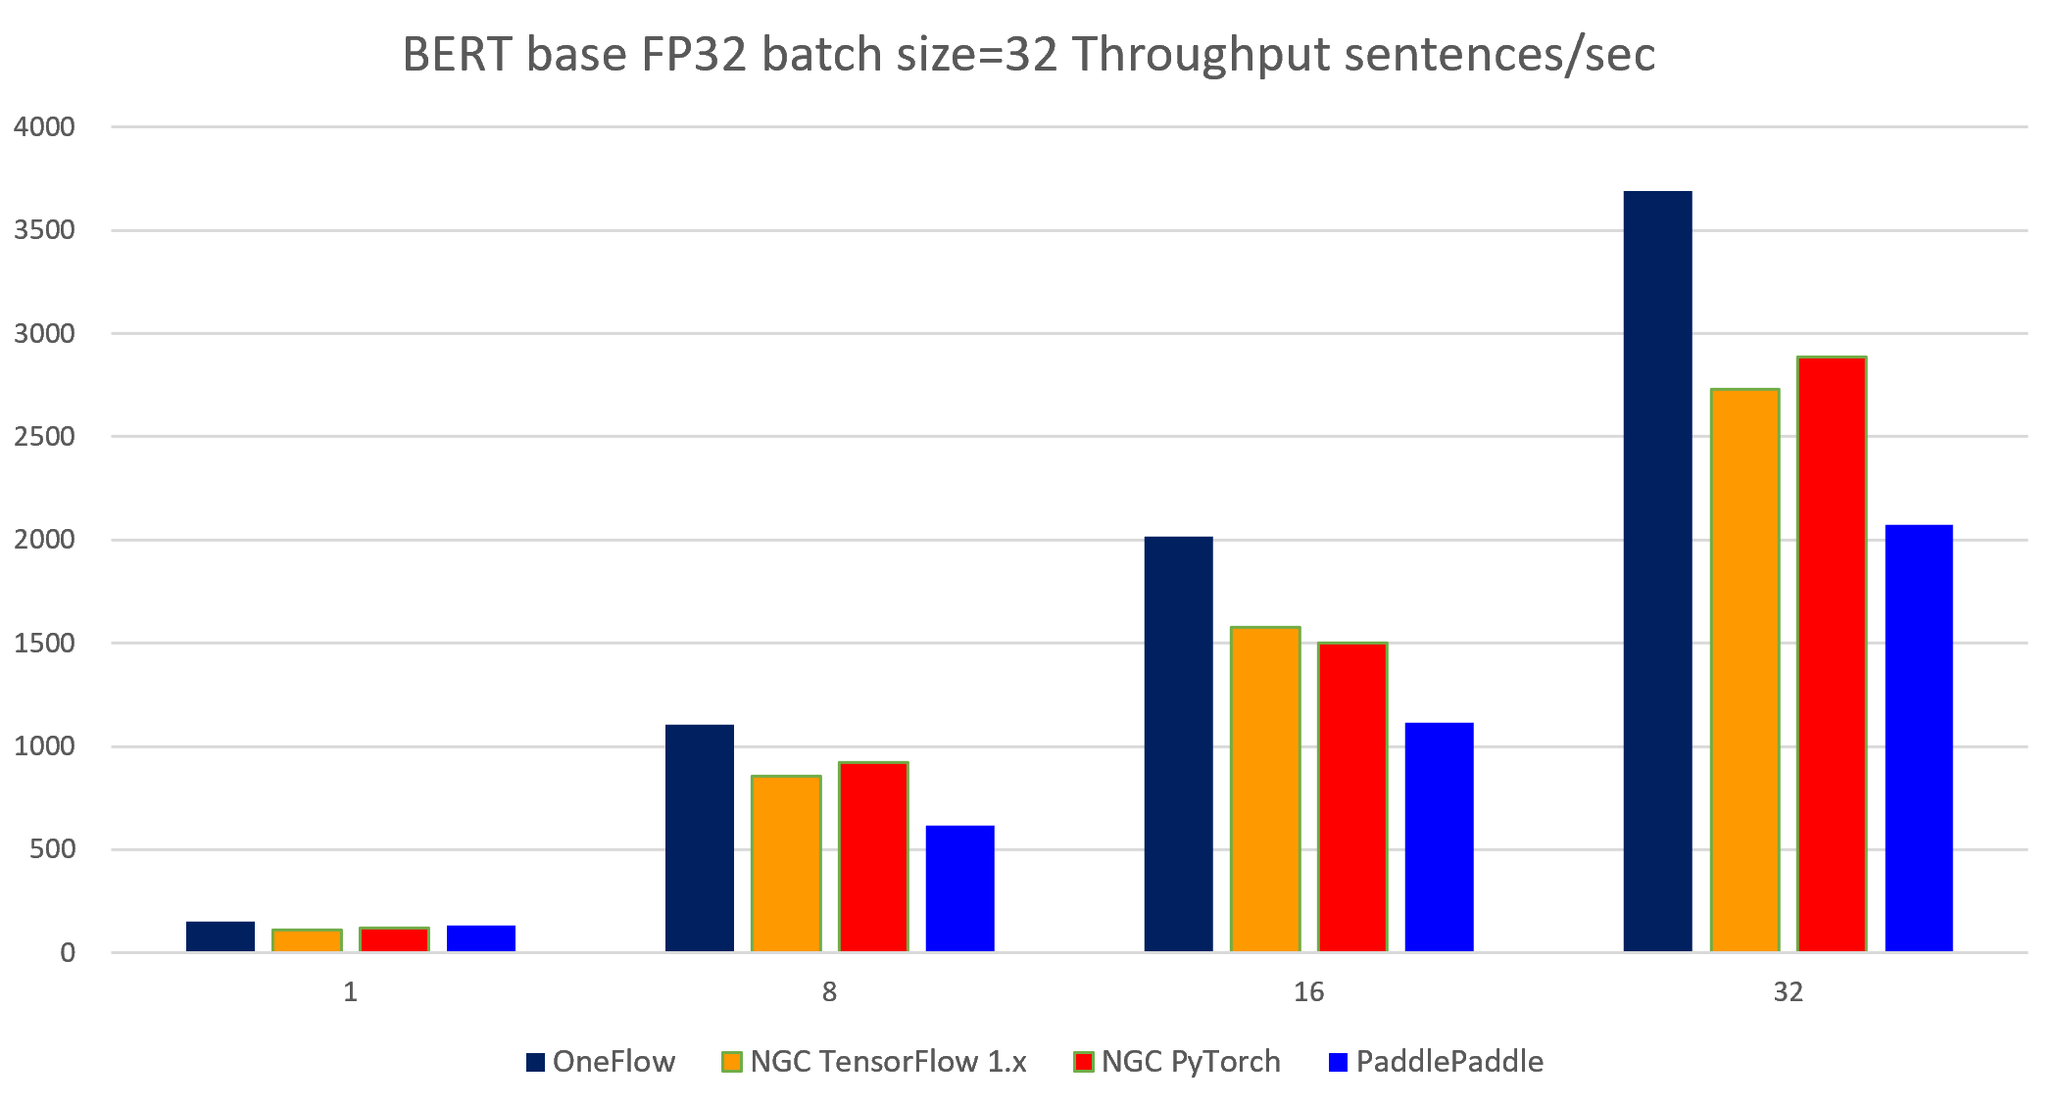
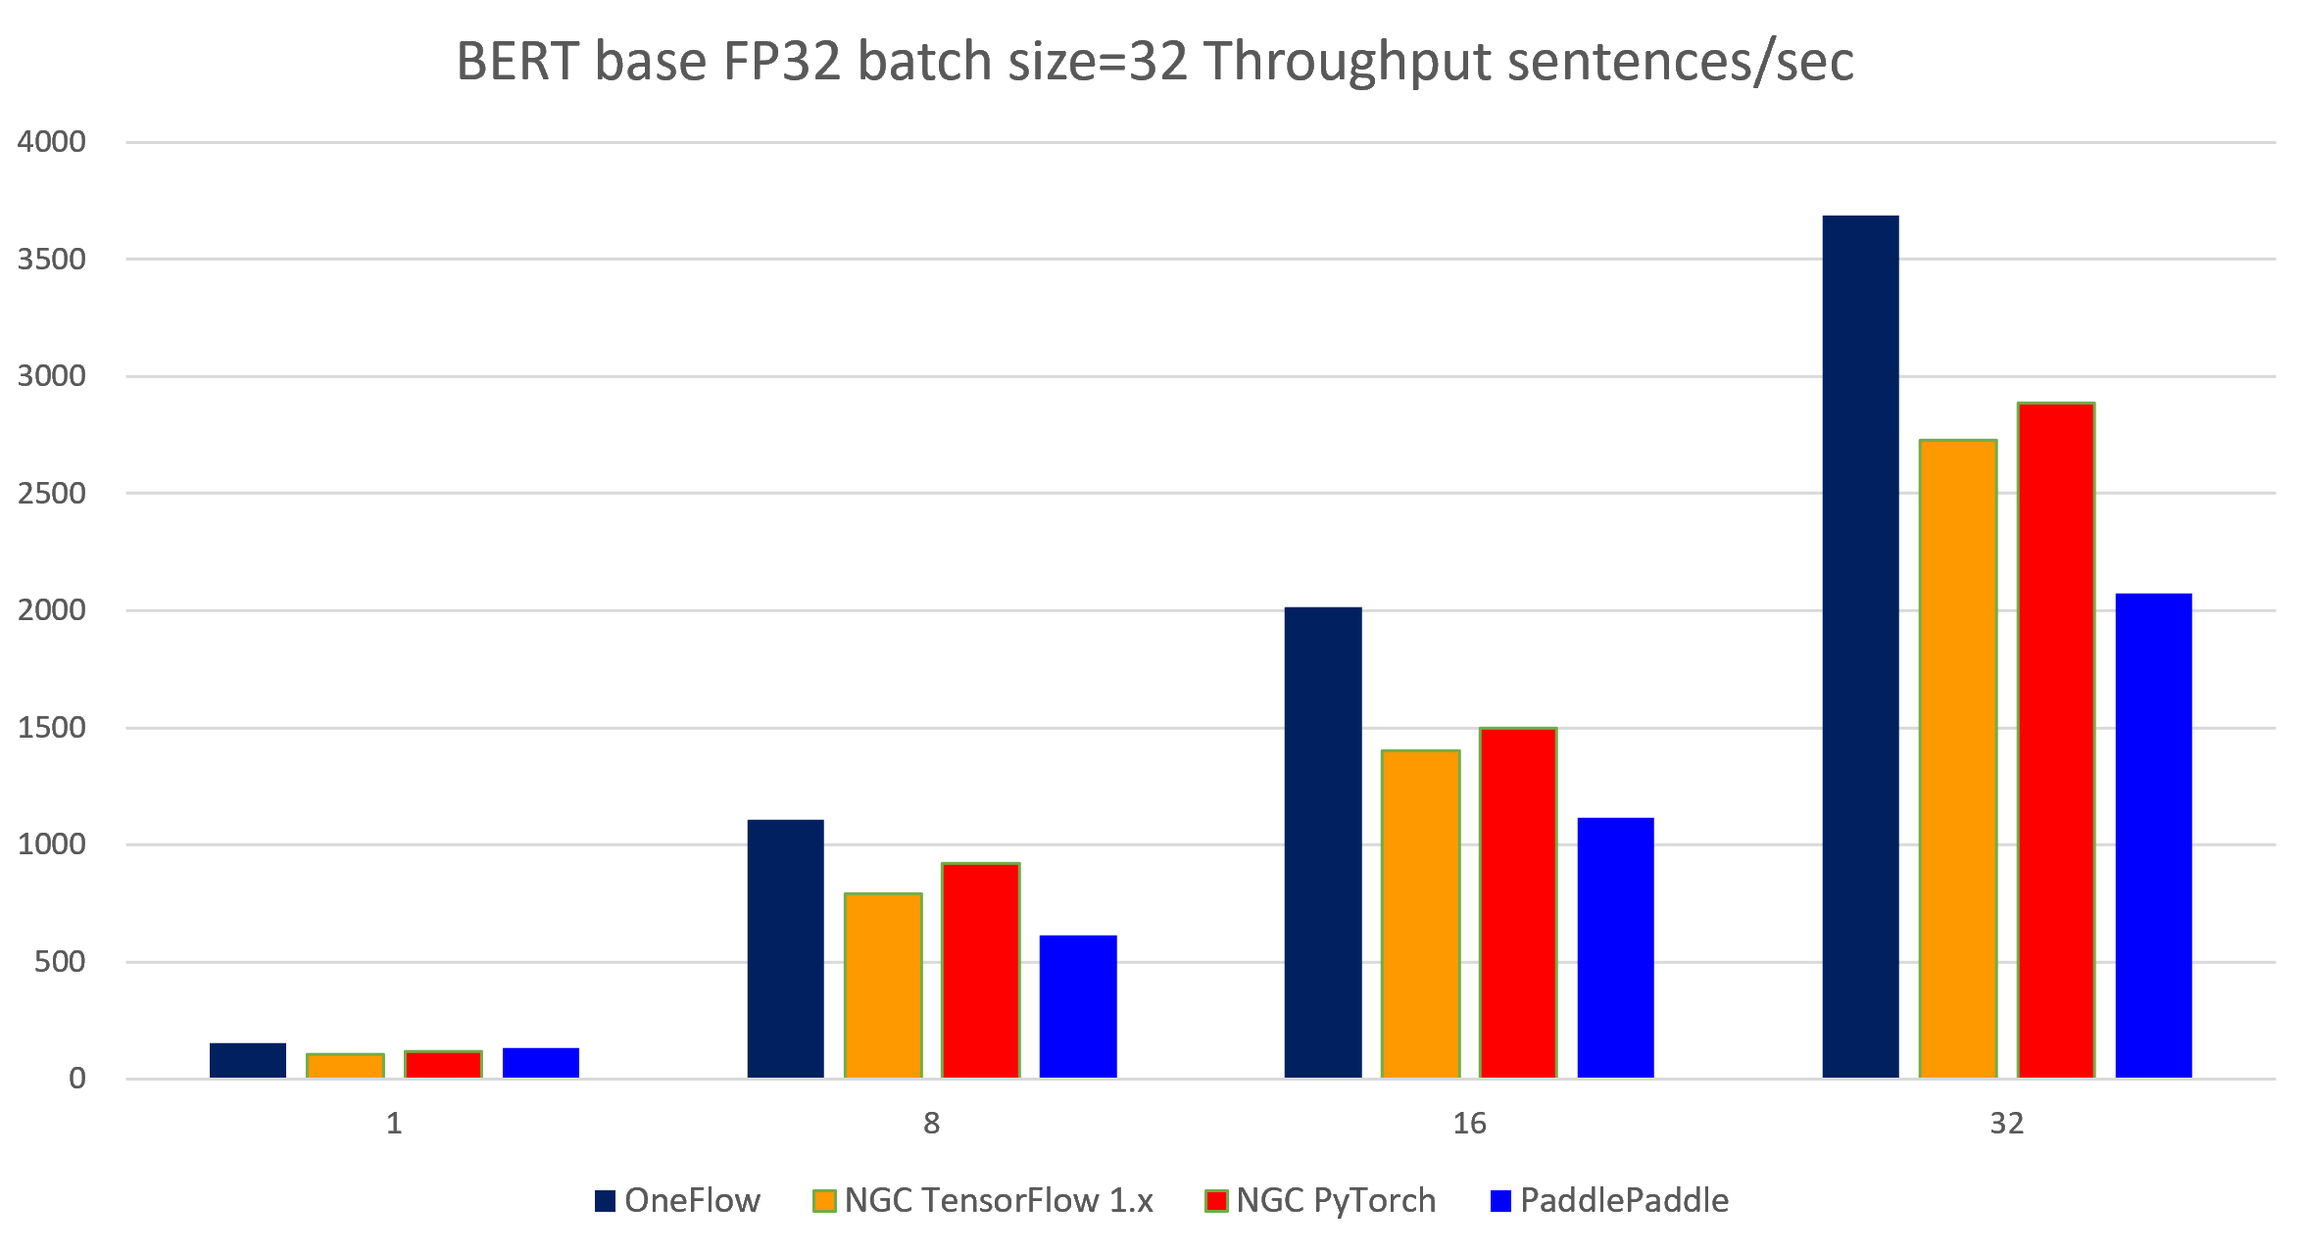
refine data of tf bert

diff --git a/reports/dlperf_benchmark_test_report_v1.md b/reports/dlperf_benchmark_test_report_v1.md
@@ -1,6 +1,6 @@
 # DLPerf Benchmark Test Report V1.0
 
-This report summarizes the results of a series of tests performed in Oct, 2020.  
+This report summarizes the results of a series of tests published in Oct, 2020.  
 
 ## Test Environment
 
@@ -119,12 +119,12 @@ The following images show throughput and speedup of 6 implementations of ResNet5
 
 | node num | device num | [OneFlow](../OneFlow) | [NGC<br>TensorFlow 1.x](../NVIDIADeepLearningExamples/TensorFlow/LanguageModeling/BERT) | [NGC<br>PyTorch](../NVIDIADeepLearningExamples/PyTorch/BERT) | [PaddlePaddle](../PaddlePaddle/bert) | <sup>[2]</sup>[OneFlow<br>W/O clip](../OneFlow) | <sup>[2]</sup>[MXNet<br>W/O clip](../MxNet/BERT) |
 | -------- | ---------- | --------------------- | ------------------------------------------------------------ | ------------------------------------------------------------ | ------------------------------------ | ----------------------------------------------- | ------------------------------------------------ |
-| 1        | 1          | 152.89                | 112.76                                                       | 119.60                                                       | 132.64                               | 153.94                                          | 150.11                                           |
-| 1        | 8          | 1105.55               | 855.45                                                       | 921.32                                                       | 615.12                               | 1194.48                                         | 1058.60                                          |
-| 2        | 16         | 2015.78               | 1576.88                                                      | 1499.40                                                      | 1116.02                              | 2181.51                                         | 1845.65                                          |
+| 1        | 1          | 152.89                | 107.33                                                       | 119.60                                                       | 132.64                               | 153.94                                          | 150.11                                           |
+| 1        | 8          | 1105.55               | 790.03                                                       | 921.32                                                       | 615.12                               | 1194.48                                         | 1058.60                                          |
+| 2        | 16         | 2015.78               | 1404.04                                                      | 1499.40                                                      | 1116.02                              | 2181.51                                         | 1845.65                                          |
 | 4        | 32         | 3689.80               | 2727.90                                                      | 2885.81                                                      | 2073.60                              | 4019.45                                         | 3671.45                                          |
 
-[2]: The MXNet BERT script of the [gluon-nlp](https://github.com/dmlc/gluon-nlp/tree/7b7bf60259e28b3bf1f4d70569a7e5c18e2f4b3e/scripts/bert) repository does NOT support clip_by_ global_norm operation in Adam optimizer. **W/O clip_by_global_norm** operation, the throughput will be larger and the the fine-tuning accuracy may be lower. So we also tested OneFlow data W/O clip operation for comparison.
+[2]: The MXNet BERT script of the [gluon-nlp](https://github.com/dmlc/gluon-nlp/tree/7b7bf60259e28b3bf1f4d70569a7e5c18e2f4b3e/scripts/bert) repository does NOT support clip_by_ global_norm operation in Adam optimizer. **W/O clip_by_global_norm** operation, the throughput will be larger and the the fine-tuning accuracy may be在· lower. So we also tested OneFlow data W/O clip operation for comparison.
 
 The following images show throughput and speedup of 4 implementations  (without MXNet) of BERT base with data type float32 and  batch size per device = 32.
 
@@ -134,12 +134,12 @@ The following images show throughput and speedup of 4 implementations  (without 
 
 #### FP32, batch size = max  
 
-| node num | device num | [OneFlow<br>bsz=96](../OneFlow) | [NGC<br>TensorFlow 1.x<br>bsz=48](../NVIDIADeepLearningExamples/TensorFlow/LanguageModeling/BERT) | [NGC<br>PyTorch<br>bsz=48](../NVIDIADeepLearningExamples/PyTorch/BERT) | [PaddlePaddle<br>bsz=96](../PaddlePaddle/bert) | <sup>[2]</sup>[OneFlow<br>W/O clip<br>bsz=96](../OneFlow) | [MXNet<br>W/O clip<br>bsz=64](../MxNet/BERT) |
-| -------- | ---------- | ------------------------------- | ------------------------------------------------------------ | ------------------------------------------------------------ | ---------------------------------------------- | --------------------------------------------------------- | -------------------------------------------- |
-| 1        | 1          | 156.02                          | 107.33                                                       | 121.94                                                       | 136.97                                         | 156.25                                                    | 156.76                                       |
-| 1        | 8          | 1201.70                         | 790.03                                                       | 928.01                                                       | 868.60                                         | 1234.65                                                   | 1153.08                                      |
-| 2        | 16         | 2352.92                         | 1404.04                                                      | 1584.32                                                      | 1631.36                                        | 2425.97                                                   | 2172.62                                      |
-| 4        | 32         | 4664.10                         | 3089.74                                                      | 3039.30                                                      | 3167.68                                        | 4799.64                                                   | 4340.89                                      |
+| node num | device num | [OneFlow<br>bsz=96](../OneFlow) | [NGC<br>TensorFlow 1.x<br>bsz=48](../NVIDIADeepLearningExamples/TensorFlow/LanguageModeling/BERT) | [NGC<br>PyTorch<br>bsz=48](../NVIDIADeepLearningExamples/PyTorch/BERT) | [PaddlePaddle<br>bsz=96](../PaddlePaddle/bert) | [OneFlow<br>W/O clip<br>bsz=96](../OneFlow) | [MXNet<br>W/O clip<br>bsz=64](../MxNet/BERT) |
+| -------- | ---------- | ------------------------------- | ------------------------------------------------------------ | ------------------------------------------------------------ | ---------------------------------------------- | ------------------------------------------- | -------------------------------------------- |
+| 1        | 1          | 156.02                          | 112.76                                                       | 121.94                                                       | 136.97                                         | 156.25                                      | 156.76                                       |
+| 1        | 8          | 1201.70                         | 855.45                                                       | 928.01                                                       | 868.60                                         | 1234.65                                     | 1153.08                                      |
+| 2        | 16         | 2352.92                         | 1576.88                                                      | 1584.32                                                      | 1631.36                                        | 2425.97                                     | 2172.62                                      |
+| 4        | 32         | 4664.10                         | 3089.74                                                      | 3039.30                                                      | 3167.68                                        | 4799.64                                     | 4340.89                                      |
 
 The following images show throughput and speedup of 4 implementations of BERT base with with data type float32 and batch size per device = max.
 
@@ -151,12 +151,12 @@ The following images show throughput and speedup of 4 implementations of BERT ba
 
 #### AMP, batch size = 64
 
-| node num | device num | [OneFlow](../OneFlow) | [NGC<br>TensorFlow 1.x<br>W/O XLA](../NVIDIADeepLearningExamples/TensorFlow/LanguageModeling/BERT) | [NGC<br>TensorFlow 1.x<br>with XLA](../NVIDIADeepLearningExamples/TensorFlow/LanguageModeling/BERT) | [NGC<br>PyTorch](../NVIDIADeepLearningExamples/PyTorch/BERT) | [PaddlePaddle](../PaddlePaddle/bert) | <sup>[2]</sup>[OneFlow<br>W/O clip](../OneFlow) | [MXNet<br>W/O clip](../MxNet/BERT) |
-| -------- | ---------- | --------------------- | ------------------------------------------------------------ | ------------------------------------------------------------ | ------------------------------------------------------------ | ------------------------------------ | ----------------------------------------------- | ---------------------------------- |
-| 1        | 1          | 534.72                | 183.25                                                       | 422.53                                                       | 444.51                                                       | 289.23                               | 552.48                                          | 473.76                             |
-| 1        | 8          | 3399.43               | 1452.59                                                      | 3112.73                                                      | 3251.7                                                       | 1298.96                              | 3897.19                                         | 3107.1                             |
-| 2        | 16         | 5745.56               | 2653.74                                                      | 5050.86                                                      | 4936.92                                                      | 1999.38                              | 6669.93                                         | 5723.26                            |
-| 4        | 32         | 9911.78               | 5189.07                                                      | 9409.20                                                      | 9331.72                                                      | 3406.36                              | 11195.72                                        | 11269.14                           |
+| node num | device num | [OneFlow](../OneFlow) | [NGC<br>TensorFlow 1.x<br>W/O XLA](../NVIDIADeepLearningExamples/TensorFlow/LanguageModeling/BERT) | [NGC<br>TensorFlow 1.x<br>with XLA](../NVIDIADeepLearningExamples/TensorFlow/LanguageModeling/BERT) | [NGC<br>PyTorch](../NVIDIADeepLearningExamples/PyTorch/BERT) | [PaddlePaddle](../PaddlePaddle/bert) | [OneFlow<br>W/O clip](../OneFlow) | [MXNet<br>W/O clip](../MxNet/BERT) |
+| -------- | ---------- | --------------------- | ------------------------------------------------------------ | ------------------------------------------------------------ | ------------------------------------------------------------ | ------------------------------------ | --------------------------------- | ---------------------------------- |
+| 1        | 1          | 534.72                | 183.25                                                       | 422.53                                                       | 444.51                                                       | 289.23                               | 552.48                            | 473.76                             |
+| 1        | 8          | 3399.43               | 1452.59                                                      | 3112.73                                                      | 3251.7                                                       | 1298.96                              | 3897.19                           | 3107.1                             |
+| 2        | 16         | 5745.56               | 2653.74                                                      | 5050.86                                                      | 4936.92                                                      | 1999.38                              | 6669.93                           | 5723.26                            |
+| 4        | 32         | 9911.78               | 5189.07                                                      | 9409.20                                                      | 9331.72                                                      | 3406.36                              | 11195.72                          | 11269.14                           |
 
 The following images show throughput and speedup of 4 implementations   (with TensorFlow 1.x XLA and without MXNet) of BERT base with auto mixed precision and batch size per device = 64.
 
@@ -166,12 +166,12 @@ The following images show throughput and speedup of 4 implementations   (with Te
 
 #### AMP, batch size = max  
 
-| node num | device num | [OneFlow<br>bsz=160](../OneFlow) | [NGC<br>TensorFlow 1.x<br>W/O XLA<br>bsz=64](../NVIDIADeepLearningExamples/TensorFlow/LanguageModeling/BERT) | [NGC<br>TensorFlow 1.x<br>with XLA<br>bsz=96](../NVIDIADeepLearningExamples/TensorFlow/LanguageModeling/BERT) | [NGC<br>PyTorch<br>bsz=96](../NVIDIADeepLearningExamples/PyTorch/BERT) | [PaddlePaddle<br>bsz=160](../PaddlePaddle/bert) | <sup>[2]</sup>[OneFlow<br>W/O clip<br>bsz=160](../OneFlow) | [MXNet<br>W/O clip<br>bsz=128](../MxNet/BERT) |
-| -------- | ---------- | -------------------------------- | ------------------------------------------------------------ | ------------------------------------------------------------ | ------------------------------------------------------------ | ----------------------------------------------- | ---------------------------------------------------------- | --------------------------------------------- |
-| 1        | 1          | 605.11                           | 183.25                                                       | 468.10                                                       | 462.35                                                       | 309.68                                          | 613.93                                                     | 544.31                                        |
-| 1        | 8          | 4381.66                          | 1452.59                                                      | 3559.8                                                       | 3287.12                                                      | 1666.54                                         | 4683.36                                                    | 3825.21                                       |
-| 2        | 16         | 8075.16                          | 2653.74                                                      | 5960.14                                                      | 5426.07                                                      | 2969.85                                         | 8777.57                                                    | 7327.50                                       |
-| 4        | 32         | 15724.70                         | 5189.07                                                      | 11650.0                                                      | 10349.12                                                     | 5452.35                                         | 17210.63                                                   | 14822.31                                      |
+| node num | device num | [OneFlow<br>bsz=160](../OneFlow) | [NGC<br>TensorFlow 1.x<br>W/O XLA<br>bsz=64](../NVIDIADeepLearningExamples/TensorFlow/LanguageModeling/BERT) | [NGC<br>TensorFlow 1.x<br>with XLA<br>bsz=96](../NVIDIADeepLearningExamples/TensorFlow/LanguageModeling/BERT) | [NGC<br>PyTorch<br>bsz=96](../NVIDIADeepLearningExamples/PyTorch/BERT) | [PaddlePaddle<br>bsz=160](../PaddlePaddle/bert) | [OneFlow<br>W/O clip<br>bsz=160](../OneFlow) | [MXNet<br>W/O clip<br>bsz=128](../MxNet/BERT) |
+| -------- | ---------- | -------------------------------- | ------------------------------------------------------------ | ------------------------------------------------------------ | ------------------------------------------------------------ | ----------------------------------------------- | -------------------------------------------- | --------------------------------------------- |
+| 1        | 1          | 605.11                           | 183.25                                                       | 468.10                                                       | 462.35                                                       | 309.68                                          | 613.93                                       | 544.31                                        |
+| 1        | 8          | 4381.66                          | 1452.59                                                      | 3559.8                                                       | 3287.12                                                      | 1666.54                                         | 4683.36                                      | 3825.21                                       |
+| 2        | 16         | 8075.16                          | 2653.74                                                      | 5960.14                                                      | 5426.07                                                      | 2969.85                                         | 8777.57                                      | 7327.50                                       |
+| 4        | 32         | 15724.70                         | 5189.07                                                      | 11650.0                                                      | 10349.12                                                     | 5452.35                                         | 17210.63                                     | 14822.31                                      |
 
 The following images show throughput and speedup of 4 implementations of BERT base with auto mixed precision and batch size per device = max.
 
